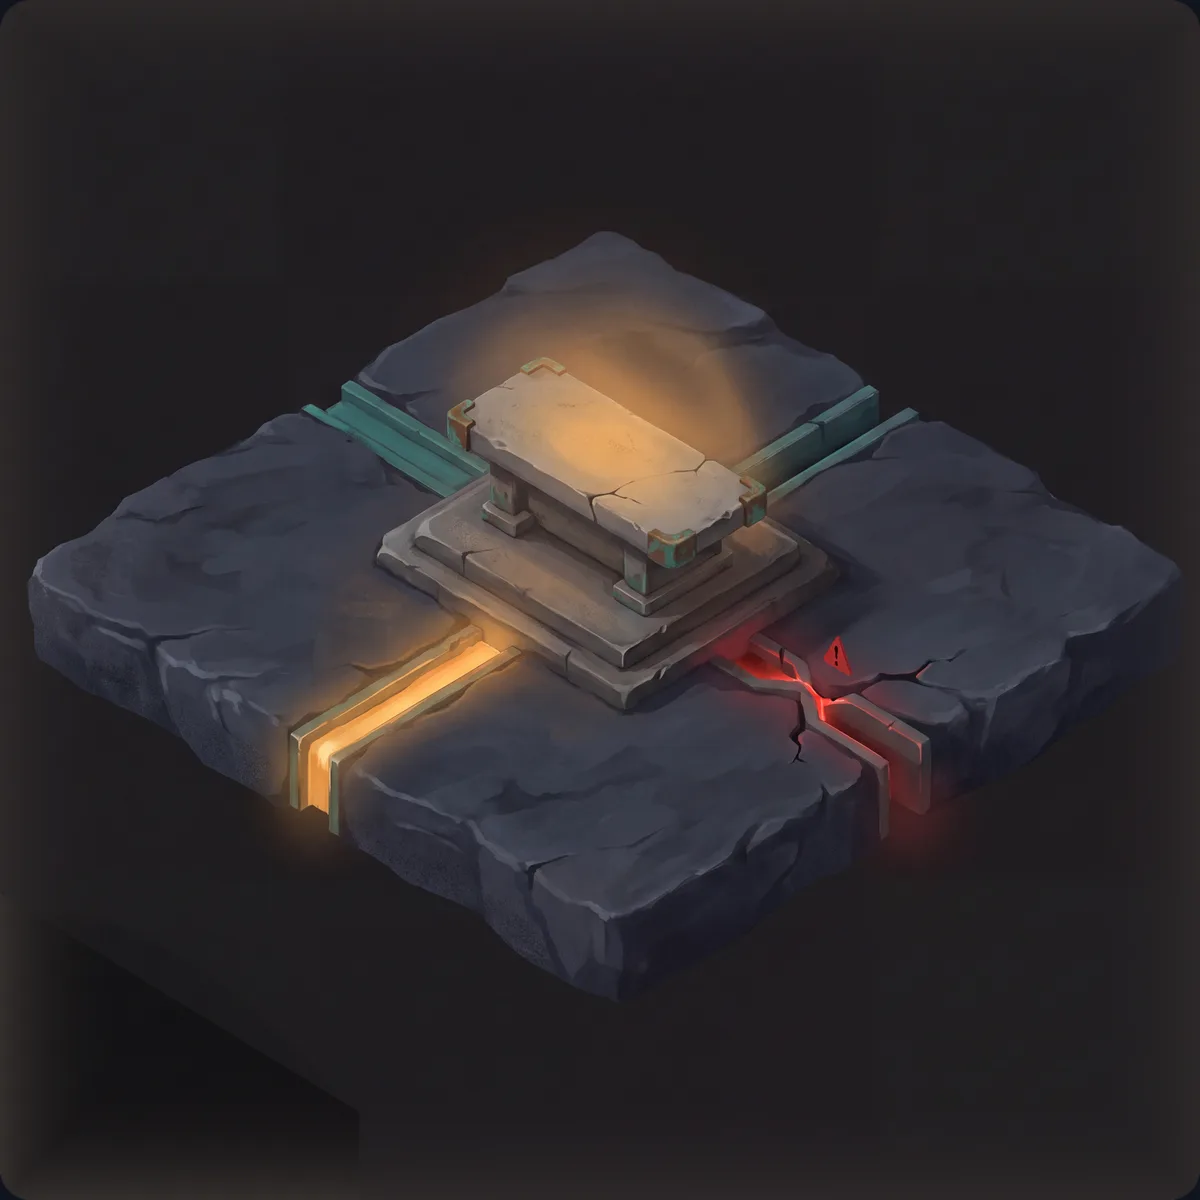
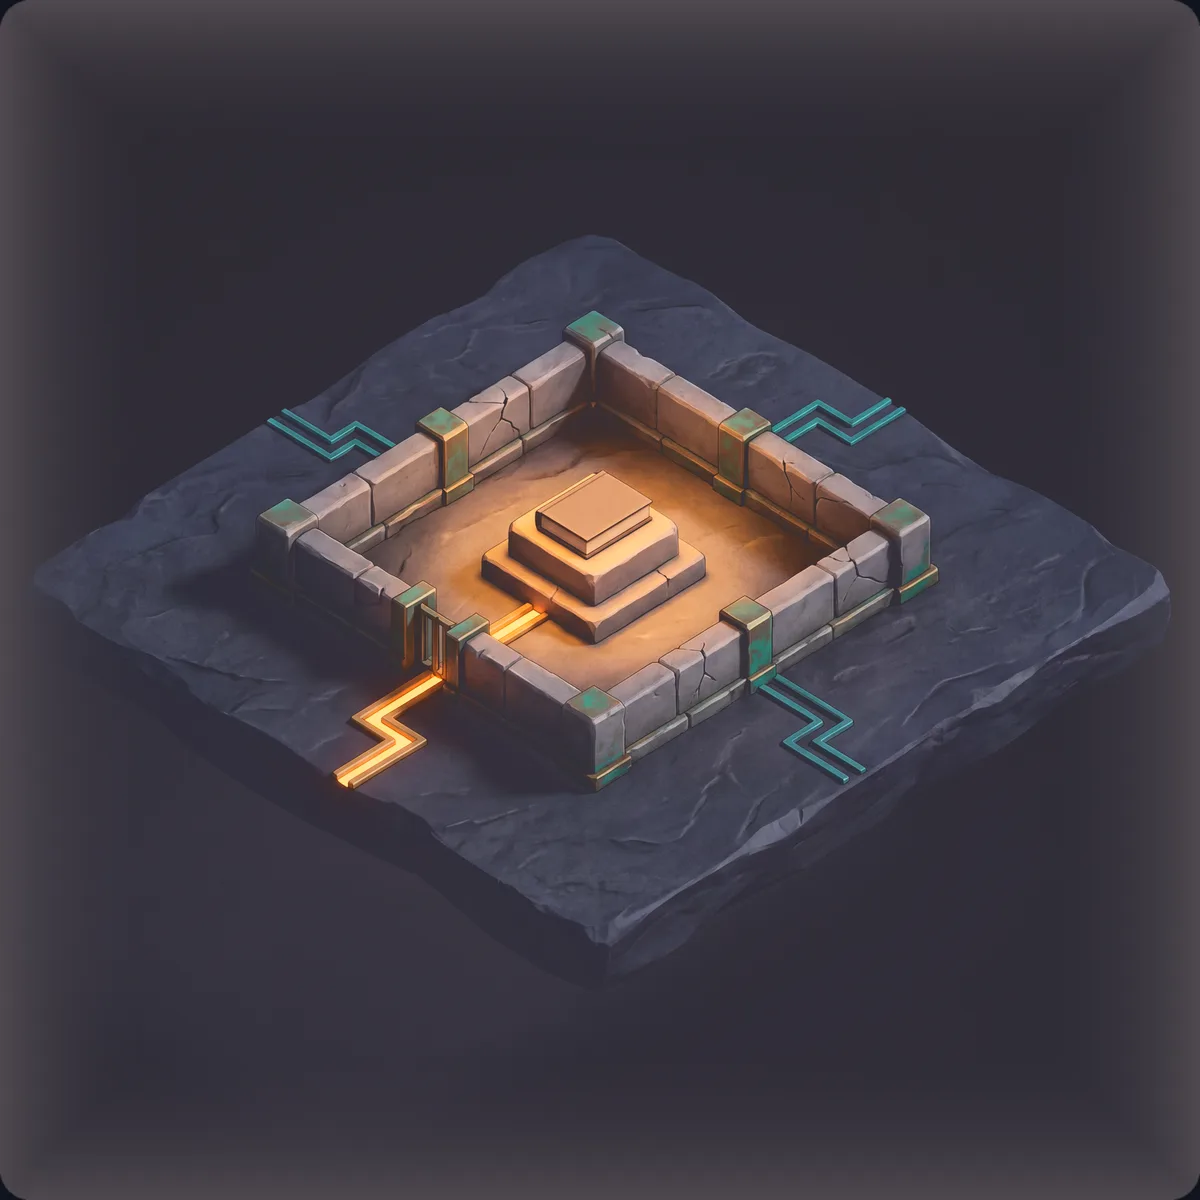
Swap the Advisory Briefing hero to the lifted panel
Third candidate and the one kept. Another dark panel — 1,884 non-opaque
pixels of 2,560,000, all corner rounding — so the framed treatment again,
flattened onto #0f141e at 1200x1200. No component change; the cutout variant
stays deleted.

Different scene rather than a different rendering of the same one, so the alt
text and caption move with it: a walled stone enclosure with a lit stepped
plinth, an amber path in through one gate and teal circuit lines out. The
caption is now "One question, set down inside a clear boundary", which echoes
what the page already says a page down — that the Briefing works best when the
question has a clear boundary.

Typecheck, the full suite (1,551 tests) and test:manual pass. Walked in a
browser in both themes.

Claude-Session: https://claude.ai/code/session_017f415KPVd5AX4EZv13syt3

diff --git a/src/app/(website)/advisory/advisory-briefing/page.tsx b/src/app/(website)/advisory/advisory-briefing/page.tsx
@@ -18,8 +18,8 @@ export default function AdvisoryBriefingPage() {
         inShort: 'A focused one-hour working session, with prioritised recommendations and a written follow-up.',
         ctaLabel: 'Request a briefing',
         imageSrc: '/advisory/advisory-briefing.webp',
-        imageAlt: 'An isometric stone plinth on a cracked slab, lit from above, with teal, amber and warning-red channels converging on it',
-        imageCaption: 'One question, set down and lit from every side.',
+        imageAlt: 'An isometric walled stone enclosure on a slate slab, a lit stepped plinth at its centre, with an amber path leading in through one gate and teal circuit lines running out',
+        imageCaption: 'One question, set down inside a clear boundary.',
       }}
       audience={<>
         <p className="text-xl text-text-primary">For leaders with one specific question to resolve.</p>

diff --git a/project_summary.md b/project_summary.md
@@ -687,12 +687,14 @@ make it a free reference that feeds the existing engagements.
 
 **Advisory Briefing artwork, and an unused cutout variant on the shared hero.**
 The Briefing hero is an isometric illustration supplied by the owner, replacing
-the generated still life. Two candidates were tried. `B_isolated_cutout.png` is a
-genuine transparent cutout and was shipped first in a new borderless treatment;
-the owner set it aside. `A_softened_panel.png` is the same scene on a **dark
-panel** — 99.9% opaque, with alpha only on its four rounded corners — so it takes
-the ordinary framed treatment at 1200×1200 like the other four heroes, and that
-is what is live.
+the generated still life. **Three candidates were tried and the third is live:**
+`B_isolated_cutout.png` (a genuine transparent cutout, shipped first in a new
+borderless treatment, then set aside), `A_softened_panel.png`, and
+`C1_lifted_panel.png` — a walled enclosure with a lit plinth at its centre. Both
+panels are **99.9% opaque**, with alpha only on their four rounded corners, so
+they take the ordinary framed treatment at 1200×1200 like the other four heroes.
+The alt text and caption changed with the third: it is a different scene, not a
+different rendering of the same one.
 
 The `artwork: 'photograph' | 'cutout'` variant added for the first attempt has
 been **deleted** — it ended the day with no caller, and an untested branch on the

diff --git a/src/app/(admin)/context/homepage-redesign/CHANGELOG.md b/src/app/(admin)/context/homepage-redesign/CHANGELOG.md
@@ -654,3 +654,17 @@ When sections ship, log them here in this format:
   a matching box ratio or the caption drifts far below the picture.
 - `cutoutHandling` dropped from `docs/advisory-image-prompts.json`; the
   pixel-counting warning is kept on the image entry, where it is still true.
+
+## 2026-09-09 (fourth) — Advisory Briefing hero: `C1_lifted_panel.png`
+
+- Third candidate and the one kept. Another dark panel (1,884 non-opaque pixels
+  of 2,560,000, all corner rounding), so the framed treatment again, flattened
+  onto `#0f141e` at 1200x1200. No component change — the cutout variant stayed
+  deleted.
+- **Different scene, so the alt text and caption changed with it**: a walled
+  stone enclosure with a lit stepped plinth, an amber path in through one gate
+  and teal circuit lines out. Caption is now "One question, set down inside a
+  clear boundary", which echoes the page's own line about the Briefing working
+  best when the question has a clear boundary.
+- Typecheck and the full suite (1,551 tests) pass. Walked in a browser in both
+  themes.
